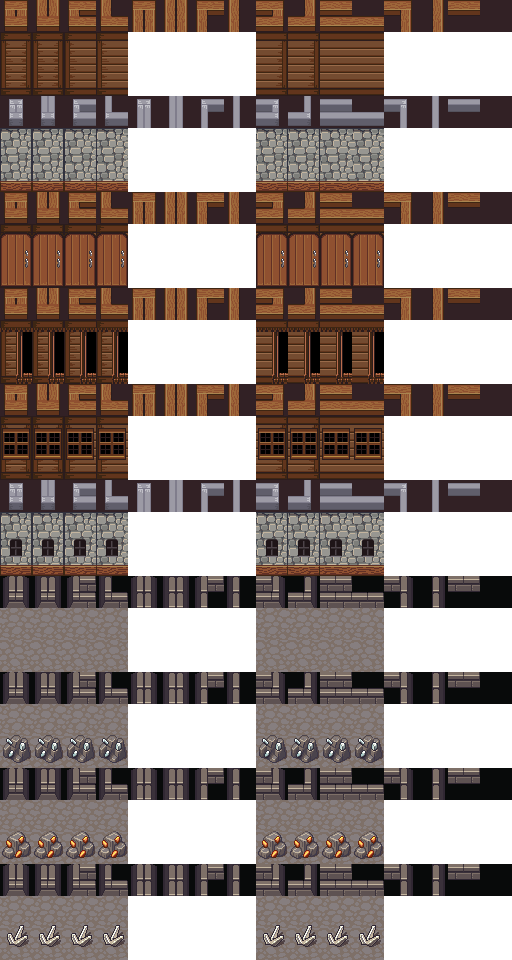
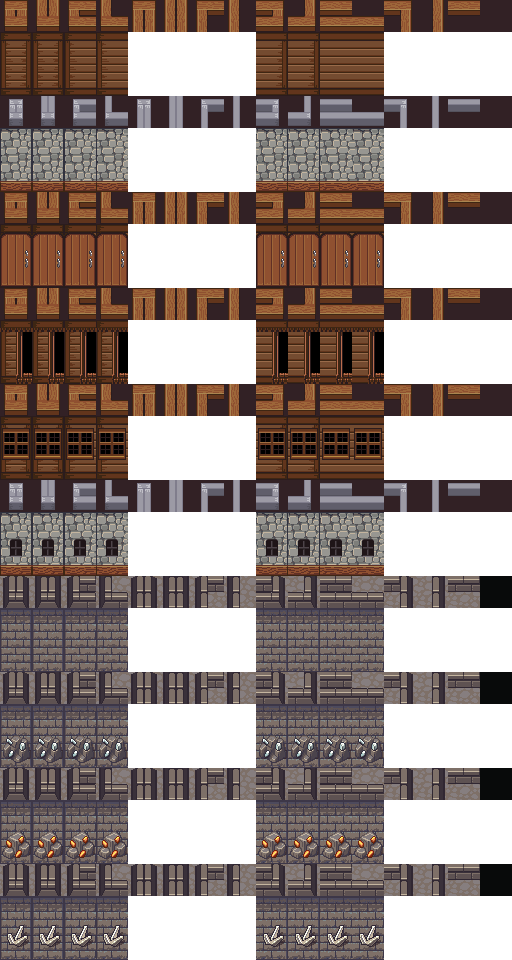
Cave rock reads as a wall: a stone face at the passage, grey top, dark mass
The rock's face was a terrain fill and read as a grey floor next to the
brown one. Now, from a passage outwards: a face of dark stone masonry
(LPC Walls, in the tone of the cap's trim), then the grey stone of the
top inside the trim on rock at the mass's edge, then the dark of the
mass deep in.

diff --git a/tools/art/import_lpc_env.py b/tools/art/import_lpc_env.py
@@ -148,11 +148,15 @@ WALLS = {
     "base:wood_door": {"cap": 1, "face": (512, 2176), "door": (192, 833, 48), "open": (512, 640, 52)},
     "base:wood_window": {"cap": 1, "face": (512, 2176), "window": (384, 64, 32, 32, 12)},
     "base:loophole": {"cap": 8, "face": (256, 928), "window": (608, 320, 32, 32, 18)},
-    # Rock of the underground: rough stone on top, a rock face (a terrain fill).
-    "base:rock": {"cap": 16, "fill": "Rock_Gray"},
-    "base:iron_ore_rock": {"cap": 16, "fill": "Rock_Gray", "ore": (64, 64)},
-    "base:copper_ore_rock": {"cap": 16, "fill": "Rock_Gray", "ore": (96, 32)},
-    "base:gem_rock": {"cap": 16, "fill": "Rock_Gray", "ore": (128, 256)},
+    # Rock of the underground, read from a passage outwards: a face of dark
+    # stone (in the tone of the cap's trim) at the passage's edge, then the
+    # grey stone of the rock's top (a terrain fill) inside the trim, then the
+    # dark of the mass deep in (the author, 20.10.2026: "по краю прохода —
+    # кирпич, дальше серо и темно").
+    "base:rock": {"cap": 16, "fill": "Rock_Gray", "face": (128, 928)},
+    "base:iron_ore_rock": {"cap": 16, "fill": "Rock_Gray", "face": (128, 928), "ore": (64, 64)},
+    "base:copper_ore_rock": {"cap": 16, "fill": "Rock_Gray", "face": (128, 928), "ore": (96, 32)},
+    "base:gem_rock": {"cap": 16, "fill": "Rock_Gray", "face": (128, 928), "ore": (128, 256)},
 }
 ORE = SRC / "ore_0.png"
 MINE = SRC / "lpc-mine" / "lpc-mine" / "mine.png"
@@ -208,6 +212,17 @@ def wall_top(tiles, nesw):
     return img
 
 
+def without(img, colour):
+    """The picture with one colour taken out (the dark of a cap's middle)."""
+    out = img.copy()
+    px = out.load()
+    for y in range(out.height):
+        for x in range(out.width):
+            if px[x, y][:3] == colour[:3]:
+                px[x, y] = (0, 0, 0, 0)
+    return out
+
+
 def wall_face(walls, fx, fy, nesw):
     """A face 64 px tall: the block's top and bottom rows; its end tiles at
     the wall's ends."""
@@ -261,15 +276,15 @@ def build_buildings():
             variants = []
             for nesw in range(16):
                 img = Image.new("RGBA", (T, T + STOREY))
-                img.alpha_composite(wall_top(tiles, nesw), (0, 0))
+                if "fill" in spec and nesw != 15:
+                    # Rock at the mass's edge: its grey top inside the trim
+                    # (the mass's colour of the trim tiles left out).
+                    img.alpha_composite(fills[spec["fill"]], (0, 0))
+                    img.alpha_composite(without(wall_top(tiles, nesw), tiles[15].getpixel((0, 0))), (0, 0))
+                else:
+                    img.alpha_composite(wall_top(tiles, nesw), (0, 0))
                 if not nesw & 4:  # the face shows where nothing stands south
-                    if "fill" in spec:
-                        face = Image.new("RGBA", (T, STOREY))
-                        face.paste(fills[spec["fill"]], (0, 0))
-                        face.paste(fills[spec["fill"]].transpose(Image.FLIP_LEFT_RIGHT), (0, T))
-                        img.alpha_composite(face, (0, T))
-                    else:
-                        img.alpha_composite(wall_face(walls, spec["face"][0], spec["face"][1], nesw), (0, T))
+                    img.alpha_composite(wall_face(walls, spec["face"][0], spec["face"][1], nesw), (0, T))
                     if "ore" in spec:
                         x, y = spec["ore"]
                         img.alpha_composite(ore.crop((x, y, x + T, y + T)), (0, T + STOREY - T - 4))

diff --git a/docs/adr/0025-lpc-world.md b/docs/adr/0025-lpc-world.md
@@ -16,6 +16,10 @@
    угловых тайлов, 16 вариантов по соседям) и лицевая сторона в этаж (64 px).
    Дверь 56 px — повтором досок середины двери LPC. Руда — камень с жилой из
    Ore and Forge на лицевой стороне. Вершины скальной толщи — плитки на высоте этажа.
+   Скала читается от прохода наружу (автор, 20.10.2026): у края прохода — лицевая
+   сторона из тёмной каменной кладки LPC Walls в тон кромке, дальше серый верх
+   (Rock_Gray) внутри кромки у клеток на краю толщи, глубже — тёмная толща.
+   Прежняя лицевая сторона из заливки грунта читалась как серый пол.
 4. **Растения и вещи** стоят основанием (ствол, стебель) на середине клетки;
    картинка может быть шире клетки (крона, копёр), место на земле — клетка.
 5. **Звери** сведены к одному формату (ряды n, w, s, e, квадратные кадры, ноги на
